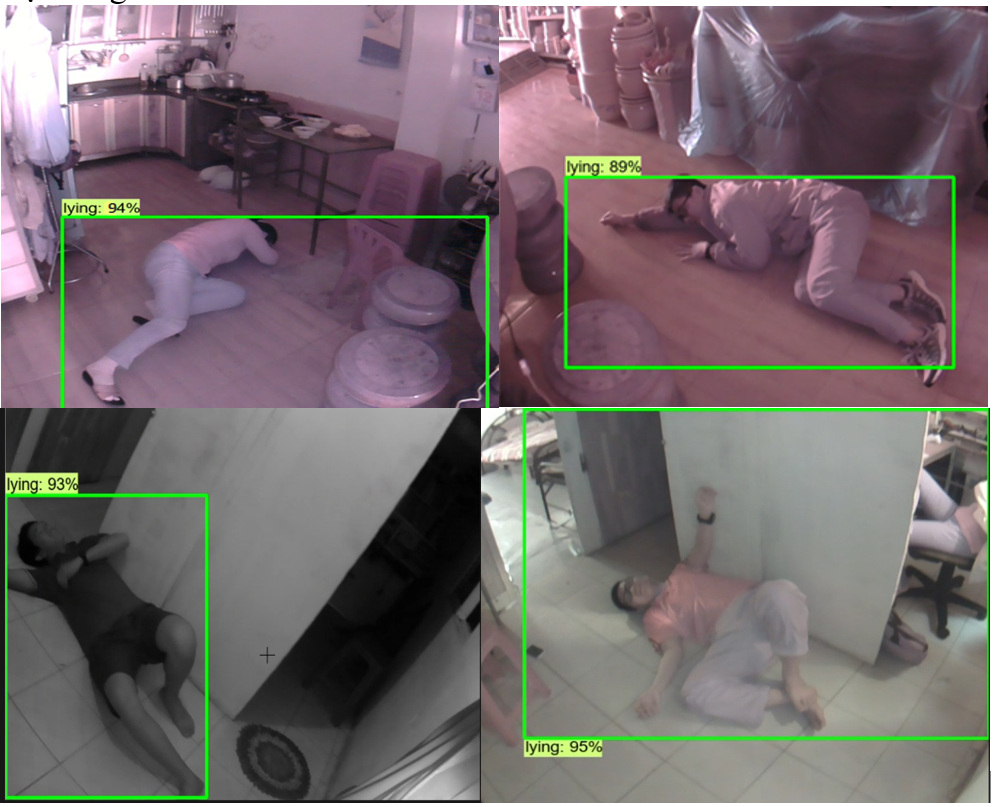
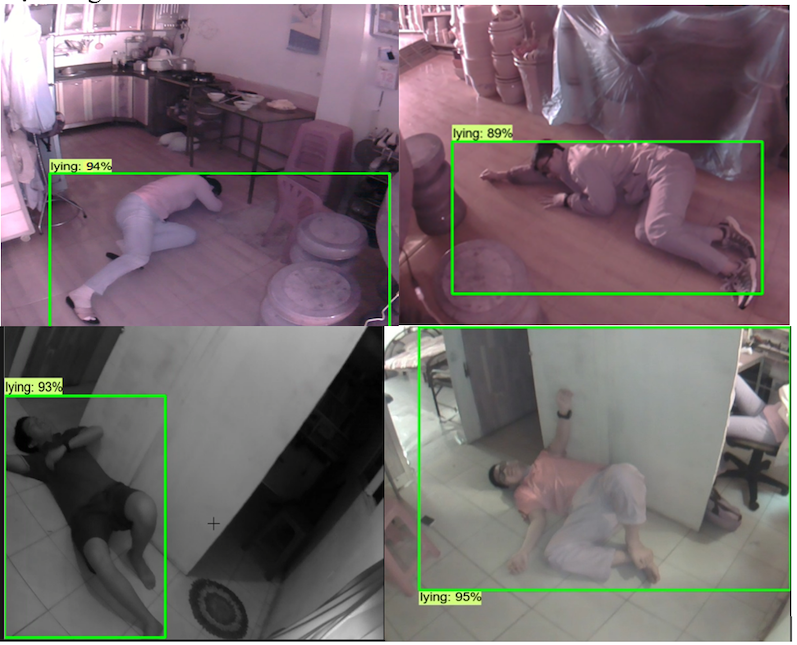
add 2 post

diff --git a/_posts/2018-10-12-tinkering-ai.md b/_posts/2018-10-12-tinkering-ai.md
@@ -1,0 +1,39 @@
+---
+title: DIY fall person detection machine learning project
+date: 2018-10-12 10:00:00 +0000
+categories: [Machine Learning]
+tags: [Fall detect, RTSP camera, DIY]
+pin: false
+image: "assets/img/fall_person/fall_Detection.png"
+---
+
+## Begin at a normal high school
+The result from last year's fair made me willing to do something even more challenging. So I jumped in headfirst on started this project before I moved on to high school. One of the reasons I learn in normal school instead of gifted school is because… I play too much in the summer and have a month of vacation in Ha Noi, and for any student to join the gifted school, they need to put in a ton of extra hours with classes, and for me, I'd barely done any. 
+
+The previous fair also allowed me to know a new friend, Huy and a new teacher in the high school Mrs. To Lan, she is an Infomation Technology teacher. So I gathered my friends and asked my teacher for some help to prepare for the next competition. 
+Our strategy is an idea that can benefit the old, decided to make a camera system that can call in emergency cases like when someone falls on the floor. For the call part, that is a piece of cake, just bought a SIM module and hooked up to the UART port on the Raspberry Pi and you can make a call or text msg in just a few hours. But for the AI part, detecting someone falling on the floor using the camera was not simple, and quite a new concept to that day.
+To be honest AI at this time is the very beginning of the blooming stage, TensorFlow is one of the biggest machine learning platforms, and there is a post by Google on how to train your own model. So I went on to try that out. 
+![Our latest tech](../assets/img/fall_person/DSC_0048.JPG)
+*An acrylic box with hot glue gets the job done*
+## Collecting Data for the first time
+At this point for an AI model to run, you need thousands of images about the target you want the model to detect, and to detect a fall person, using an existing human detect model is not viable because the body shape is not the same (I tried to detect using the shape of the detected bounding box, if the rectangle stays vertical mean they… lying and when they lying on the floor, they probably fell. Another idea is to force the model to detect human video feed with 90 degrees rotation, but it wasn't reliable) 
+
+So I and Huy went on to DIY the "lying person dataset", by actually lying on the floor, we had some friends to help us with that. I also gathered data manually from the internet, by searching the related content (major of them are accident images, and some image about the old fall is faked) As it is our first time on ML, we have many to learn. We also attempt to collect hand data for gesture control (like, if you have fallen on the floor, and might want to cancel the emergency call by raising a hand. Quite a silly idea)
+
+## Train the model until my first PC motherboard is dead.
+Long story short, collecting data was an easy part, training it is harder. Thank my mom for buying me a PC recently at that time, I only built the PC with an Intel-core chip, no GPU, since I had only intended to compile code before and didn’t have any plan for playing games. So no GPU, training AI on a CPU is like hell. I tried to train on CPU and… Google Cloud (I got free 300$ for trying the service, but no permit to use GPU… So yeah, I trained on Google Cloud CPU, and after a week of training, the handmade AI model was unable to recognise me lying on the floor, and unable to achieve a decent score in validation data. At this time, several months have passed and our project is on the edge of failure. 
+
+My friend Huy, who's the same age as me, was making waves at the time, he had been working with a phone repair shop. He'd managed to buy a GTX1060 with 6GB RAM. He let me borrow it for our project, so with the card on, I quickly went into training the model and got a better result after a week. On testing, the new model showed a little capability of actually detect lying person, with a little shake on our body on the floor. With this result, we went on the competition with a little more confidence. The electric bill that month went up significantly too :D. 
+
+But, I didn't know that the power supply of my PC was not good. After weeks of training and improvement. My PC is suddenly dead while training the model, leaving us freaking out. Luckily, the shop accepted the warranty and replaced us with a new motherboard. And at least we got even better results for our model. 
+
+## The local fair
+This year, our school will host the fair, so it is a little advantage for us in term of travel distance. I am quite familiar with the format of the fair by my experience on it last year, and we got in the final round. 
+At the final round, we presented our project in front of the congress. There is an older brother competitor, he has the same project purpose. Instead of using the camera, he made a wristband that was capable of detecting falls. So it is similar to the feature later Apple Watch had, and in my point of view, it would be more capable in terms of actually solving the problem. However, when the examiner asked to compare our projects he instead emphasised the advantages of my project like more accuracy and reliability, and at the end gave me a ticket to go on ViSEF, a national competition. Honestly, I feel my project sometimes like trying to use a cannon to kill chickens and promote the project using fancy technology like AI and Machine Learning. 
+![We prepared really hard](<../assets/img/fall_person/Screenshot 2025-03-10 at 17.02.28.png>)
+*Mrs. Lan, Mr. Huy and me prepare for the presentation*
+# A trip to Da Lat
+ViSEF this year is held at Da Lat, and we have a trip there with our local best teams. When the first examiner came to our poster to see the demo, my friend, Huy lying on the floor to demonstrate the features of our project, it was detected that he lying on the floor and demo quite smoothly. Later on, when the sunlight direction in the afternoon changed, we failed the demo with another examiner. But we still have hope and wait for the final event. But after all our attempts in the whole year, we back home with no prize. We were both sad and really disappointed at this point after all our efforts.
+But for me, I moved on with a new attempt just several days later. I met a new teacher, Mr Hoanh, a Physics teacher at my high school and we heavily brainstormed for our next year's project.
+
+[Old Code Repo and model in 2018](https://github.com/Cemu0/fallpesondetection)

diff --git a/_posts/2017-08-01-first-major-project.md b/_posts/2017-08-01-first-major-project.md
@@ -1,0 +1,38 @@
+---
+title: First Competition Automatic plant care
+date: 2017-08-01 10:00:00 +0000
+categories: [Plant care, Automatic]
+tags: [Plant, Automation, IOT, DIY]
+pin: false
+image: "assets/img/smart_trees_plant/Smart_Tree.jpg"
+---
+
+## The beginning journey to the future Vietnam Science and Engineering Fair (ViSEF)
+
+After I learn programming Arduino and toy cars for months. I decided to make a project for a competition at my mid-school Nguyen Hue. At this time, I had Mr. To Nam, who taught me IT subject and he saw my potential.
+
+At this time, I learned about web programming and used it to control the ESP8266 remotely. The time I controlled a LED over Wi-Fi and a computer was really interesting. 
+
+At school, because other kids just made too simple things, I moved to the local town SEF the next year with the same product (thank you to the invitation of my teacher, I had never heard of any science fair in my town). With some upgrades.
+
+FYI, there are some violations and scandals about ViSEF, but as I live in a small town, well, I don’t have a choice. After all these years joining this fair, I don’t have any significant results to directly benefit my chosen university in the future. After 2 years of joining ViSEF, the highest prize I got is consolation or 4th prize.
+
+## Featured with many features in… 2 files
+
+As a self-learner, nobody told me the better way to code, so I had to figure that out later myself. But this time, I got two microcontrollers. Each had a single file of code (sure I knew how to use other libraries to connect with different modules like External ROM, RTC…). Using an Arduino Pro Mini and an ESP8266 V2 (at this time I didn’t know that the ESP8266 had external pins too and I didn’t need to have a separate Arduino).
+
+But it was really funny to see HTML, CSS, and JavaScript in a C++ file and in a string format. Thank you to me, I made the debug process extremely painful. Somehow, I managed to allow the user to change the wifi setting too.
+
+If you are curious about how hilarious the code seems, check out my code [here](https://github.com/Cemu0/smart-box-for-tree/tree/master)
+
+
+![My UI](../assets/img/smart_trees_plant/Smart_Tree1.png)
+
+## It took me a week to fix a character bug “+” sign
+
+Sure, it was always hard when you started. I don’t remember the details, but I got a bug when setting the system for automatic watering. At 5 a.m. in the morning, the system kept pumping water to the tree and kept doing it until water was all over my floor and table. Luckily, the system was still fine because it was inside a box and I did not have a backup version. 
+
+## Conclusion 
+Besides the fact that this kind of project usually ends up in some conner. But It helps me to learn different skills that are still in use nowadays, from the network infrastructure to web programming. And since I read almost all post in Vietnamese 
+And most importantly, it taught me to teach my students to do the same idea. 
+![My students projects](<../assets/img/smart_trees_plant/Screenshot 2025-03-09 at 14.34.34.png>)
